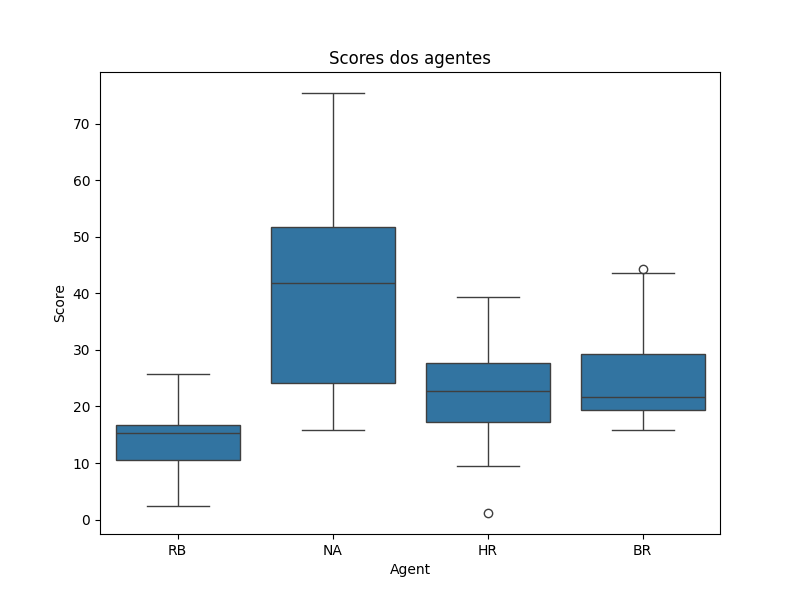
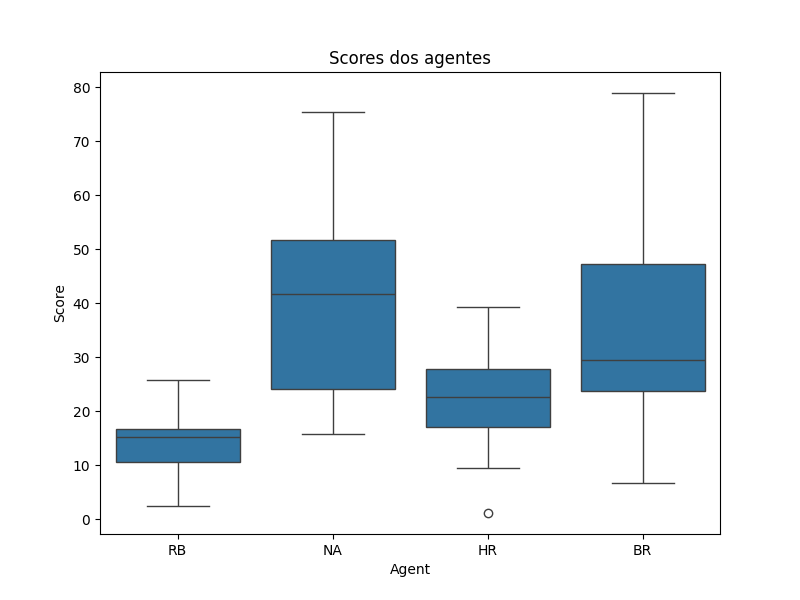
refactor: Testes novos rodados e pequenos ajustes feitos

diff --git a/batfly_algo.py b/batfly_algo.py
@@ -14,18 +14,18 @@ class BatFlyAlgorithm:
         self.bats = np.zeros((self.population_size, self.d)) # Criando população de morcegos (100, 1475)
         self.v = np.zeros((self.population_size, self.d)) # Inicialização das velocidades dos morcegos (100, 1475)
         
-        self.best_solution = self.solutions[0] # Inicializando a melhor solução
+        self.best_solution = self.solutions[0].copy() # Inicializando a melhor solução
         
         self.f_min = 0.0 # Frequência mínima dos morcegos
         self.f_max = 3.0 # Frequência máxima dos morcegos
-        self.freq = np.random.uniform(self.f_min, self.f_max, self.d) # Inicialização da frequência de cada morcego
+        self.freq = np.random.uniform(self.f_min, self.f_max, self.population_size) # Inicialização da frequência de cada morcego
         
         self.alpha = 0.9 # Fator de decremento da loudness
         self.gamma = 0.9 # Fator de incremento do pulse rate
         
         self.r_max = 1 # Pulse rate máximo
-        self.r = np.random.uniform(0, self.r_max/4, self.d) # Inicialização do vetor de pulse rates
-        self.A = np.random.uniform(1, 2, self.d) # Inicialização do vetor de loudness
+        self.r = np.random.uniform(0, self.r_max/4, self.population_size) # Inicialização do vetor de pulse rates
+        self.A = np.random.uniform(1, 2, self.population_size) # Inicialização do vetor de loudness
     
     def get_best_solution(self, objective_function, parallel : bool = True) -> float:
         if parallel:
@@ -40,24 +40,21 @@ class BatFlyAlgorithm:
         return scores[best_indx]
     
     def search_solutions(self, objective_function, iteration : int):
-        # Atualizando as frequências dos morcegos
-        self.freq = np.random.uniform(self.f_min, self.f_max, self.d)
-        
         for i in range(self.population_size):
-            
             if np.random.uniform(0, 1) < self.r[i]:
                 # Gera uma solução próxima a melhor solução
                 epsilon = np.random.uniform(-1, 1, self.d)
                 self.bats[i] = self.best_solution + np.mean(self.A) * epsilon
             else:
                 # Voa com o morcego
+                self.freq[i] = self.f_min + (self.f_max - self.f_min) * np.random.uniform(0, 1)
                 self.v[i] = self.v[i] + (self.solutions[i] - self.best_solution) * self.freq[i]
                 self.bats[i] = self.solutions[i] + self.v[i]
             
             if objective_function(self.bats[i]) > objective_function(self.solutions[i]):
                 if np.random.uniform(0, 1) < self.A[i]:
                     # Solução aceita
-                    self.solutions[i] = self.bats[i]
+                    self.solutions[i] = self.bats[i].copy()
                     self.A[i] *= self.alpha
                     self.r[i] = self.r_max * (1 - np.exp(-self.gamma * iteration))
                     

diff --git a/main.py b/main.py
@@ -87,6 +87,7 @@ def plot_scores_curve(best_scores : list):
     plt.title("Melhores Pontuações dos Agentes vs Iterações do Algoritmo")
     
     plt.savefig(os.path.join("figs", "scores_curve.png"), format="png")
+    plt.close()
 
 def parse_args():
     parser = ArgumentParser()
